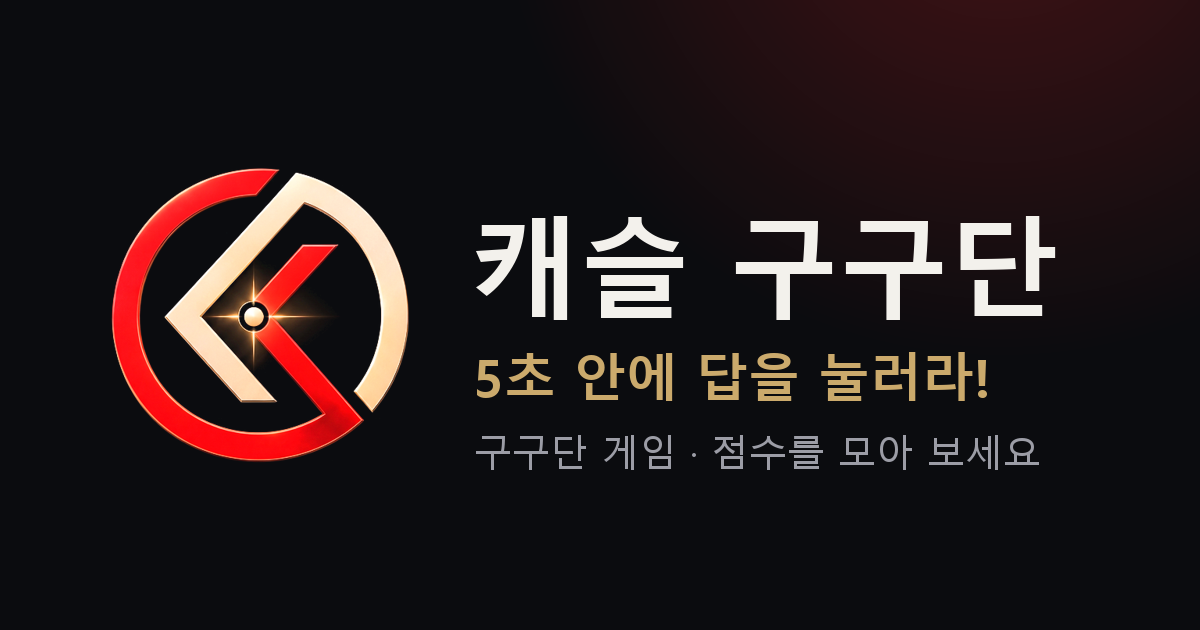
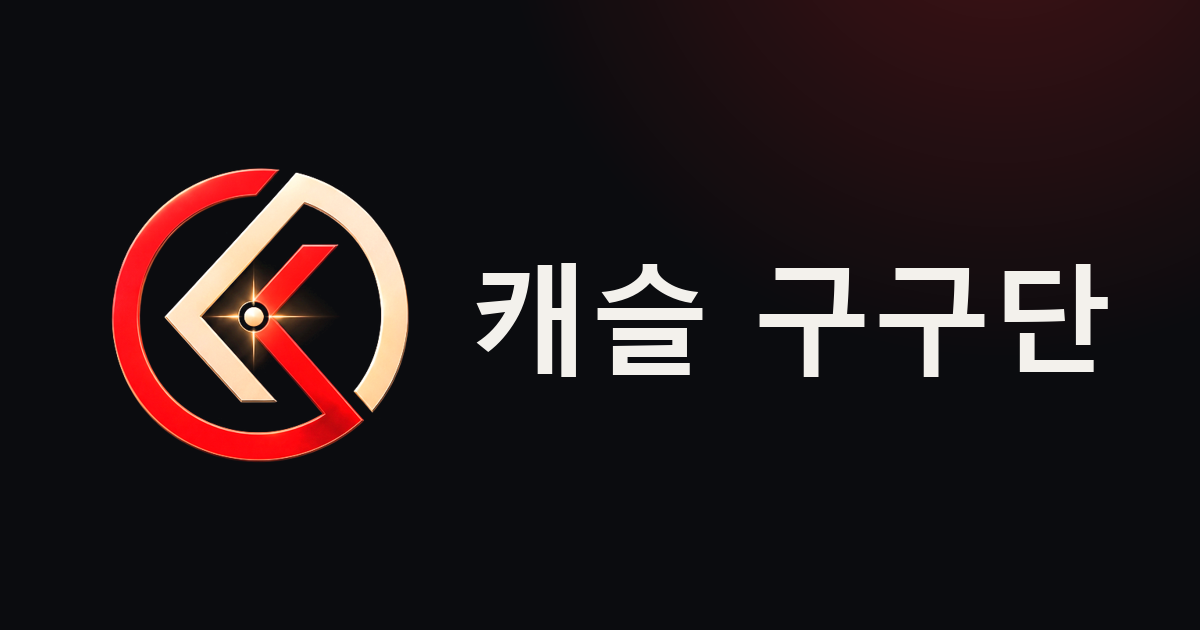
링크 미리보기에서 5초 문구 제거, 캐슬 구구단만 표시

Changed region(s): [[0.4008, 0.3317, 0.925, 0.6333], [0.5858, 0.6937, 0.8633, 0.754], [0.4008, 0.6937, 0.555, 0.754]]

diff --git a/index.html b/index.html
@@ -10,13 +10,13 @@
 <meta name="apple-mobile-web-app-title" content="캐슬 구구단">
 <meta name="theme-color" content="#0B0C0F">
 <title>캐슬 구구단</title>
-<meta name="description" content="5초 안에 답을 눌러라! 구구단 게임 · 점수를 모아 보세요">
+<meta name="description" content="캐슬 구구단">
 <meta property="og:type" content="website">
 <meta property="og:site_name" content="캐슬 구구단">
 <meta property="og:title" content="캐슬 구구단">
-<meta property="og:description" content="5초 안에 답을 눌러라! 구구단 게임 · 점수를 모아 보세요">
+<meta property="og:description" content="캐슬 구구단">
 <meta property="og:url" content="https://gugu.kastlemath.com/">
-<meta property="og:image" content="https://gugu.kastlemath.com/og.png">
+<meta property="og:image" content="https://gugu.kastlemath.com/og2.png">
 <meta property="og:image:width" content="1200">
 <meta property="og:image:height" content="630">
 <meta name="twitter:card" content="summary_large_image">
@@ -154,7 +154,7 @@ h2{font-size:17px;margin:0 0 4px;letter-spacing:-.02em}
     var up = mode === 'up';
     GUEST = false;
     $app.innerHTML = head(false) +
-      '<div class="hero"><div class="hi">구구단 도전!</div><h1>캐슬 구구단</h1><div class="tip">5초 안에 답을 눌러요.<br>로그인하면 점수가 차곡차곡 쌓여요.</div></div>' +
+      '<div class="hero"><div class="hi">구구단 도전!</div><h1>캐슬 구구단</h1><div class="tip">로그인하면 점수가 차곡차곡 쌓여요.</div></div>' +
       '<div class="card"><div class="seg"><button id="tin" class="' + (up ? '' : 'on') + '">로그인</button><button id="tup" class="' + (up ? 'on' : '') + '">가입하기</button></div>' +
       '<label for="uid">아이디' + (up ? ' (한글·영문·숫자 2~12자)' : '') + '</label><input id="uid" autocomplete="username" autocapitalize="off" spellcheck="false" maxlength="12">' +
       '<label for="upw">비밀번호 (숫자 4자리)</label><input id="upw" type="password" inputmode="numeric" pattern="[0-9]*" maxlength="4" autocomplete="' + (up ? 'new-password' : 'current-password') + '">' +
@@ -222,7 +222,7 @@ h2{font-size:17px;margin:0 0 4px;letter-spacing:-.02em}
     });
     if (myRank && myRank > top.length) rows += '<div class="r me"><span class="no">' + myRank + '</span><span class="nm">' + esc(ME.name) + ' (나)</span><span class="pt">' + fmt(ME.points) + '점</span></div>';
     $app.innerHTML = head(true) +
-      '<div class="hero"><div class="hi">5초 안에 눌러라!</div><h1>' + esc(ME.name) + '님,<br>구구단 도전!</h1></div>' +
+      '<div class="hero"><div class="hi">구구단 도전!</div><h1>' + esc(ME.name) + '님,<br>어서 와요!</h1></div>' +
       (GUEST ? '<div class="card"><h2>로그인 없이 하는 중이에요</h2><div class="sub">점수는 저장되지 않아요. 가입하면 점수가 차곡차곡 쌓여요.</div><button class="cta ghost" id="reg" style="margin-top:12px;height:48px;font-size:15.5px">가입하고 점수 모으기</button></div>'
         : '<div class="card"><div class="total"><div><div class="lb">내 누적 점수</div><div class="v">' + fmt(ME.points) + '<small>점</small></div></div><div class="bt">한 판 최고<b>' + fmt(ME.best) + '</b></div></div></div>') +
       '<div class="card"><h2>연습할 단</h2><div class="sub">고르지 않으면 2단부터 9단까지 모두 나옵니다.</div><div class="dans">' + chips + '<button class="all ' + (all ? 'on' : '') + '" data-d="all">전체 (2~9단)</button></div></div>' +
